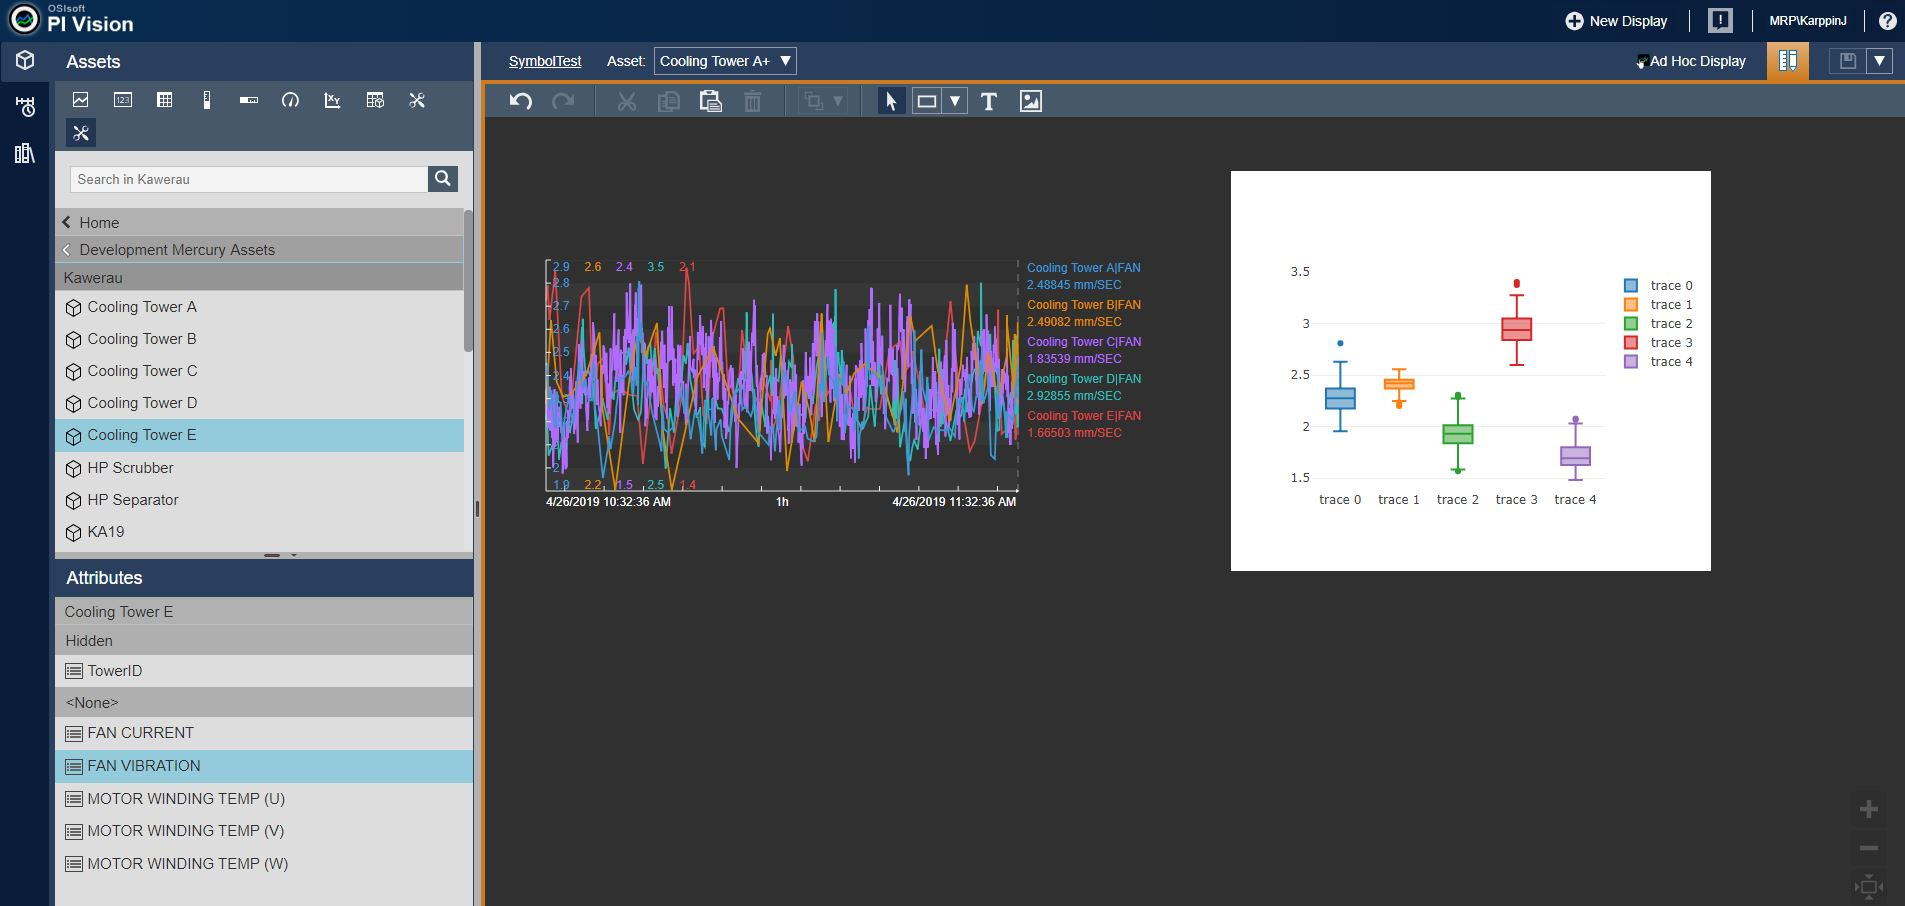
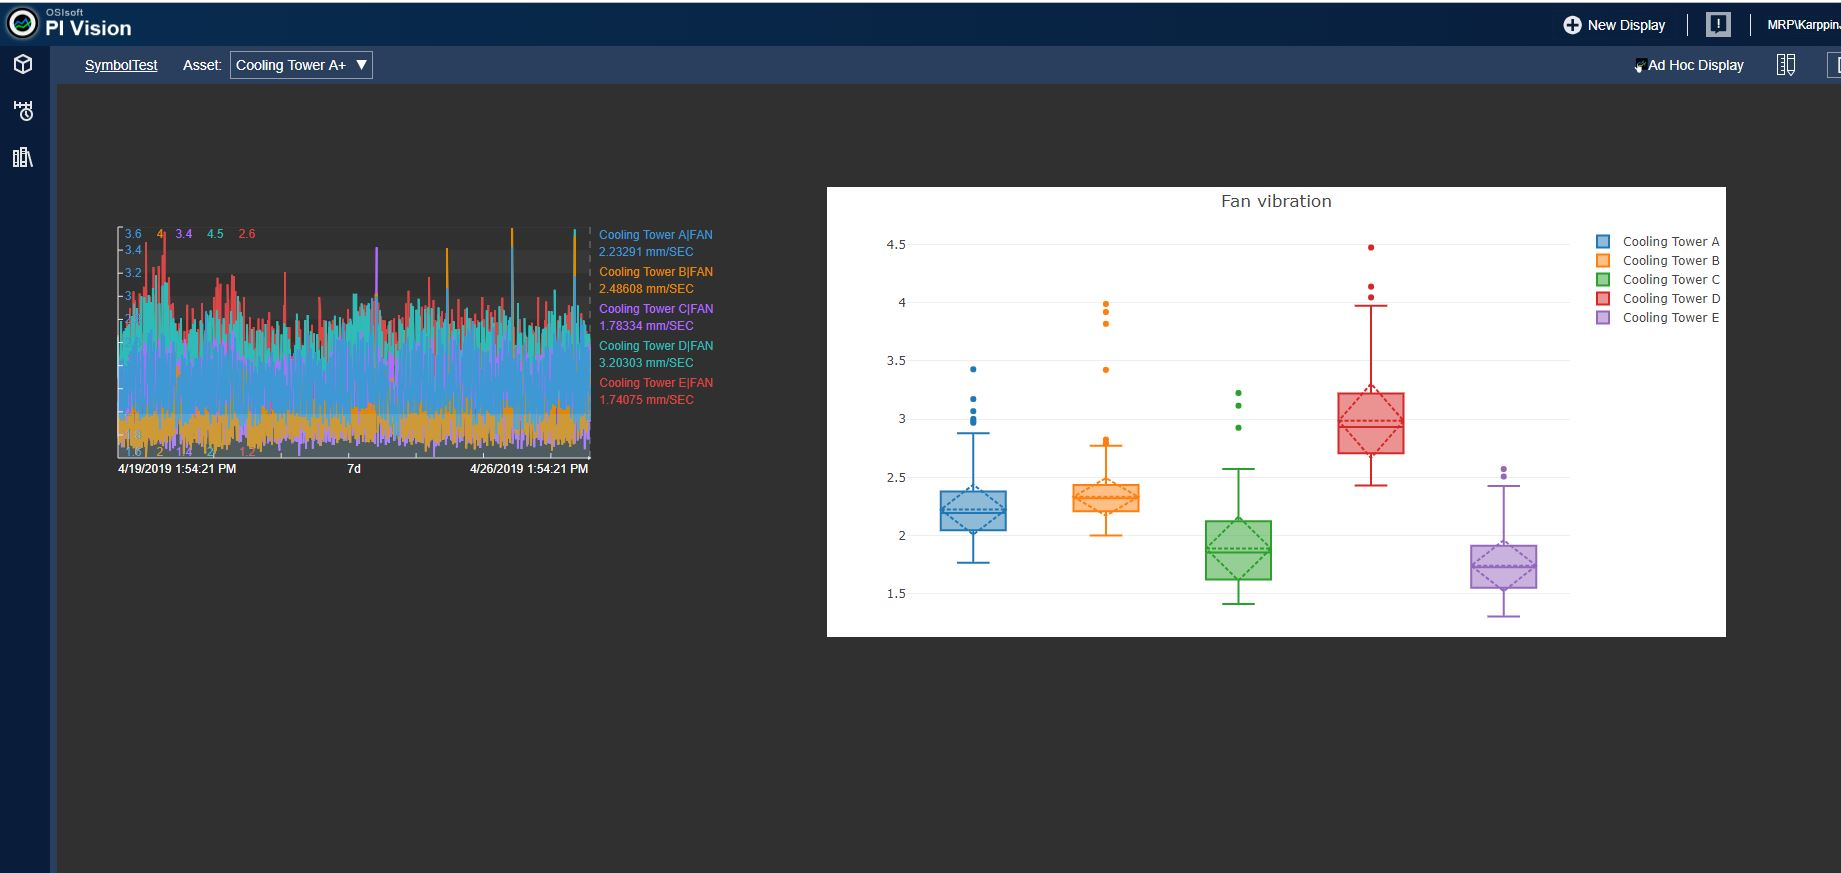
Add files via upload
Improved version

diff --git a/sym-plotlygauge.js b/sym-plotlygauge.js
@@ -12,8 +12,8 @@
 			return { 
 				DataShape: 'TimeSeries',
 				DataQueryMode: 3,
-				Height: 150,
-				Width: 150 
+				Height: 400,
+				Width: 800 
 			} 
 		}
 	}
@@ -22,7 +22,24 @@
 
 		this.onDataUpdate = dataUpdate;
 		
+		var labels = [];
 		var firstLoad = true;
+		
+		var layout = {
+		  title: {
+			 text: 'Fan vibration'
+		  },
+		  displayModeBar: false,
+		  xaxis: {
+			visible: false
+		  },
+		  margin:{
+			  t:40,
+			  b:0,
+			  pad:0
+			}
+		  
+		};
 	
 		function dataUpdate(data)
 		{
@@ -30,43 +47,35 @@
 			
 			if(!data)
 				return;
-				
+			if(labels.length != data.Data.length)
+					labels = [];
 			
 			let plotData = [];
+			
 			for(var dl = 0; dl < data.Data.length; dl++)
 			{
 				let dataValues = data.Data[dl].Values.map(function(v){return v.Value});
+				if(data.Data[dl].Label)
+				{
+					
+					labels[dl] = data.Data[dl].Label.split('|')[0]
+					
+				}
+					
 				plotData[dl] = {
 					y: dataValues,
-					type: 'box'
-					
+					type: 'box',
+					name: labels[dl],
+					boxmean: 'sd'
 				}
 			}
 			
-			var y0 = [];
-			var y1 = [];
-			for (var i = 0; i < 50; i ++) {
-				y0[i] = Math.random();
-				y1[i] = Math.random() + 1;
-			}
-
-			var trace1 = {
-			  y: y0,
-			  type: 'box'
-			};
-
-			var trace2 = {
-			  y: y1,
-			  type: 'box'
-			};
-
-			//var data = [trace1, trace2];
-
+		
 			
 			if(firstLoad)
-				Plotly.newPlot('myDiv', plotData);
+				Plotly.newPlot('myDiv', plotData, layout);
 			else
-				Plotrly.react('myDiv', plotData);
+				Plotrly.react('myDiv', plotData, layout);
 			
 		}
 

diff --git a/sym-plotlygauge-template.html b/sym-plotlygauge-template.html
@@ -1,4 +1,4 @@
 
 <div>
-	<div id="myDiv" style="width: 480px; height: 400px;">
+	<div id="myDiv" style="width: 1==%; height: 100%">
 </div>
